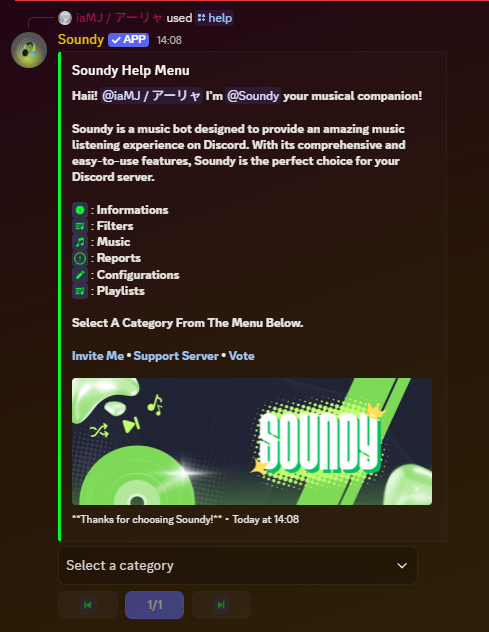
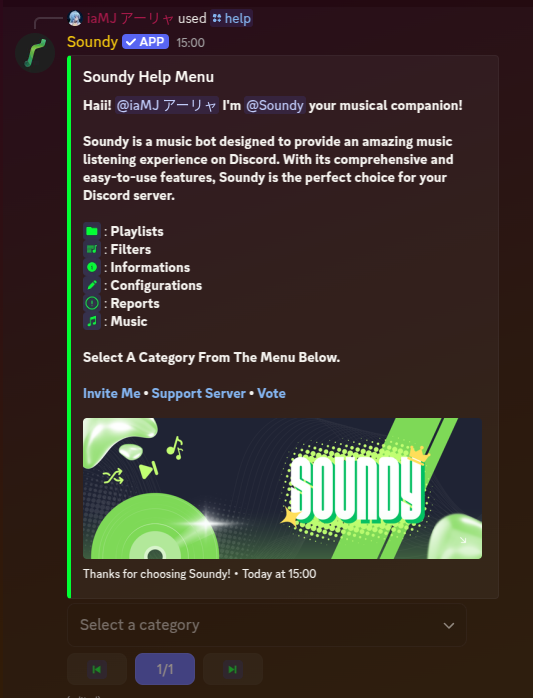
docs: update setup instructions and add encryption step; add live lyrics section feat: update help, now playing, and play images; add live lyrics too

diff --git a/README.md b/README.md
@@ -83,7 +83,7 @@
    > **📌 Important:** You need to set up a Turso database first before configuring the bot.
 
    <details>
-   <summary><b>🔧 How to get Turso Database URL & Password</b></summary>
+   <summary><h3 style="display:inline;margin:0;padding:0;">🔧 How to get Turso Database URL & Password [CLICK HERE]</h3></summary>
    
    ### Step 1: Create a Turso Account
    1. Go to [turso.tech](https://turso.tech/)
@@ -128,7 +128,21 @@
    LASTFM_API_KEY=your_lastfm_api_key # You can add multiple keys separated by commas for load balancing
    ```
 
-5. **🔧 Configure Bot Settings**
+5. **🔒 Encrypt environment & initialize database**
+
+   After you fill in `.env`, run the following commands to encrypt environment variables (recommended for production) and apply the database schema to Turso:
+
+   ```bash
+   # encrypt environment variables (optional but recommended)
+   bun encrypt
+
+   # push local database schema to the remote Turso database
+   bun db:push
+   ```
+
+   Running these ensures secrets are handled securely and the remote database is prepared before starting the bot.
+
+6. **🔧 Configure Bot Settings**
    
    **a.** Update `src/config/config.ts` with your bot configuration
    
@@ -136,7 +150,7 @@
    
    **c.** Set up custom emojis in `src/config/emoji.ts`
 
-6. **🚀 Start the Bot**
+7. **🚀 Start the Bot**
    ```bash
    bun start
    ```
@@ -179,6 +193,12 @@
 <img src="assets/help.png" alt="Help Command" width="400" style="border-radius: 10px; margin: 10px;">
 
 *Comprehensive help system with command categories*
+
+### 📝 Live Lyrics
+
+<img src="assets/lyrics.gif" alt="Live Lyrics" width="400" style="border-radius: 10px; margin: 10px;">
+
+*Live lyrics with synchronized scrolling and karaoke-style highlights*
 
 </div>
 
